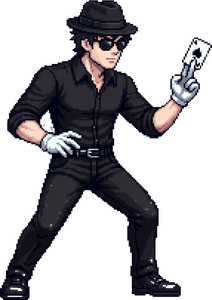
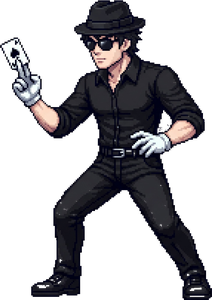
Convert to 3 levels, hide door puzzle hints, add escaped mana ending, and mirror boss sprites

diff --git a/index.html b/index.html
@@ -23,8 +23,7 @@
   button:active{transform:translateY(3px);box-shadow:0 1px 0 #0b3a3d}
   button.alt{background:var(--red);border-color:#5e1128;box-shadow:0 4px 0 #5e1128}
   .row{display:flex;gap:10px;flex-wrap:wrap;justify-content:center}
-  .door{width:clamp(85px,23vw,175px);padding:10px 6px;background:#5b3a22;border:4px solid #2e1c10;box-shadow:inset 0 0 0 4px #8a5a35,0 5px 0 #2e1c10}
-  .door small{display:block;color:#d9c3a0;margin-top:8px;font-size:.8em}
+  .door{width:clamp(85px,23vw,175px);padding:18px 8px;background:#5b3a22;border:4px solid #2e1c10;box-shadow:inset 0 0 0 4px #8a5a35,0 5px 0 #2e1c10;font-size:clamp(9px,1.6vw,14px);line-height:1.6}
   .lamp{width:clamp(44px,11vw,80px);height:clamp(44px,11vw,80px);opacity:.35;border:4px solid #000;padding:0}
   .lamp.on{opacity:1;filter:brightness(1.5);box-shadow:0 0 22px currentColor}
   .opt{min-width:120px}
@@ -48,7 +47,7 @@
 
 <script>
 /* ============================================================
-   KAAVU: HALLOWEEN NIGHT
+   KAAVU: HALLOWEEN NIGHT (3 LEVELS)
    L1: Madampalli Mana (Sunny & Nagavalli)
    L2: Koduman Mana (Thevan & Koduman Potti)
    L3: Abandoned House (Arun & Christopher)
@@ -196,7 +195,7 @@ loadGameImage("thevan", "assets/thevan.png");
 loadGameImage("christopher", "assets/christopher.png");
 loadGameImage("arun", "assets/arun.png");
 
-/* ---------- GAME DATA ---------- */
+/* ---------- GAME DATA (3 LEVELS) ---------- */
 const LEVELS = [
   { 
     name: "Madampalli Mana", 
@@ -230,28 +229,9 @@ const LEVELS = [
       { name: "Christopher", col: "#222222", f: "hat", img: "christopher" },
       { name: "Christopher", col: "#222222", f: "hat", img: "christopher" }
     ]
-  },
-  { 
-    name: "Crossroads at Midnight", 
-    sky: "#10304a", 
-    tree: "#7a2f5a",
-    hero: { name: "Mantravadi", robe: "#1f7a4a", glow: "#6f9" },
-    bosses: [ {name:"Pretham", col:"#9aa89a", f:"hat"}, {name:"Pisachu", col:"#5a7a3b", f:"horns"}, {name:"Brahmarakshas", col:"#a8742b", f:"fangs"} ] 
-  },
-  { 
-    name: "The Last Kaavu", 
-    sky: "#1d1d33", 
-    tree: "#c23a6a",
-    hero: { name: "Gurukkal", robe: "#6b3ab3", glow: "#c8f" },
-    bosses: [ {name:"Kaala Yakshi", col:"#8c1f3a", f:"hair"}, {name:"Raktha Rakshas", col:"#b32626", f:"horns"}, {name:"Kaavu Muthashi", col:"#444a55", f:"hat"} ] 
-  },
+  }
 ];
 
-const PUZZLE_META = {
-  math:   { name: "Number Puzzle", icon: "🔢" },
-  memory: { name: "Lamp Memory",   icon: "💡" },
-  riddle: { name: "Kerala Riddle", icon: "📜" }
-};
 const ALL_PUZZLE_TYPES = ["math", "memory", "riddle"];
 
 const TRIVIA = [
@@ -421,7 +401,7 @@ function drawHUD(){
   txt(String(Math.max(0,Math.ceil(G.timer))).padStart(2,"0"),6,28,22,"#fff");
   for(let i=0;i<G.keys;i++) drawKeyIcon(8+i*14,36);
   for(let i=0;i<3;i++) txt("♥",W-18-i*14,16,12,i<G.lives?"#ff4a6e":"#444");
-  txt("LVL "+(G.lvl+1)+"/5",W-6,32,7,"#f2b84b","right");
+  txt("LVL "+(G.lvl+1)+"/3",W-6,32,7,"#f2b84b","right");
 }
 
 /* ---------- SCENES ---------- */
@@ -440,7 +420,7 @@ function drawFight(){
   
   // Base boss X position
   const baseX = 70 + 180*Math.max(0,G.timer/BOSS_TIME);
-  // When zapped, boss gets defeated and retreats backwards off the screen to the right!
+  // When zapped, boss retreats backwards off screen to the right
   const retreatX = (G.phase === "zap") ? (G.zapT * 115) : 0;
   const currentBx = baseX + retreatX;
   const alpha = G.phase==="zap" ? Math.max(0,1-G.zapT/2.2) : 1;
@@ -462,7 +442,7 @@ function drawFight(){
       ctx.fillRect(0,0,W,H);
       ctx.globalAlpha = 1;
 
-      // Unique weapon / energy beam per hero!
+      // Unique weapon / energy beam per hero
       if(G.lvl === 0){
         // Sunny: Golden Exorcism Holy Beam
         ctx.strokeStyle = "#ffd700";
@@ -486,7 +466,6 @@ function drawFight(){
         for(let i=0;i<14;i++){ R(currentBx + rnd(-5,35), 118 + rnd(-28,28), 3, 3, (i%2) ? "#4ade80" : "#fbbf24"); }
       } else if(G.lvl === 2){
         // Arun: Gunshot Muzzle Flash & High-velocity bullet tracer
-        // Muzzle flash
         if(G.zapT < 0.4 || (G.zapT > 0.8 && G.zapT < 1.1)){
           ctx.fillStyle = "#fff";
           ctx.beginPath();
@@ -497,7 +476,6 @@ function drawFight(){
           ctx.arc(G.heroX + 36, 118, 5, 0, 6.3);
           ctx.fill();
         }
-        // Bullet tracer line
         ctx.strokeStyle = "#fff";
         ctx.lineWidth = 2;
         ctx.beginPath();
@@ -505,14 +483,6 @@ function drawFight(){
         ctx.lineTo(currentBx + 18, 118);
         ctx.stroke();
         for(let i=0;i<16;i++){ R(currentBx + rnd(-8,30), 116 + rnd(-20,20), 2, 2, (i%2) ? "#fbbf24" : "#fff"); }
-      } else {
-        // Fallback energy
-        ctx.strokeStyle = hero.glow;
-        ctx.lineWidth = 3;
-        ctx.beginPath();
-        ctx.moveTo(G.heroX + 28, 122);
-        ctx.lineTo(currentBx + 18, 122);
-        ctx.stroke();
       }
 
       // Shouting speech bubble above Hero
@@ -531,7 +501,6 @@ function drawFight(){
       ctx.fill();
       ctx.stroke();
 
-      // Bubble pointer down to hero
       ctx.beginPath();
       ctx.moveTo(bubbleX - 6, bubbleY + 6);
       ctx.lineTo(bubbleX, bubbleY + 14);
@@ -540,7 +509,6 @@ function drawFight(){
       ctx.fill();
       ctx.stroke();
 
-      // Bold shouting text
       ctx.font = "bold 8px 'Press Start 2P', monospace";
       ctx.textAlign = "center";
       ctx.fillStyle = "#b3264f";
@@ -591,7 +559,7 @@ function loop(ts){const dt=Math.min((ts-lastTs)/1000||0,.05);lastTs=ts;update(dt
 function showTitle(){
   G.state="title";
   showPanel(`<h1>KAAVU<br>HALLOWEEN NIGHT</h1>
-    <div>5 haunted levels. Iconic battles.<br>
+    <div>3 haunted levels. 3 iconic battles.<br>
     L1: <span style="color:#ffd700">Sunny</span> vs <span style="color:#ff8fa8">Nagavalli</span><br>
     L2: <span style="color:#4ade80">Thevan</span> vs <span style="color:#fbbf24">Koduman Potti</span><br>
     L3: <span style="color:#60a5fa">Arun</span> vs <span style="color:#e5e7eb">Christopher</span></div>
@@ -632,14 +600,13 @@ function startLevel(){
 }
 
 function showDoors(){
-  // Randomize Door 1, Door 2, and Door 3 puzzle types initially upon opening
+  // Randomize puzzle types secretly behind doors (user does not see puzzle names)
   G.doorPuzzles = shuffle(ALL_PUZZLE_TYPES);
 
-  showPanel(`<h2>CHOOSE A DOOR</h2><div>Each door holds a random challenge...</div>
+  showPanel(`<h2>CHOOSE A DOOR</h2><div>Something lurks behind each door...</div>
     <div class="row">${[0,1,2].map(i=>`
       <button class="door" data-i="${i}">
         🚪<br>DOOR ${i+1}
-        <small>${PUZZLE_META[G.doorPuzzles[i]].icon} ${PUZZLE_META[G.doorPuzzles[i]].name}</small>
       </button>`).join("")}
     </div>`);
   panel.querySelectorAll(".door").forEach(b=>b.onclick=()=>enterDoor(+b.dataset.i));
@@ -647,7 +614,7 @@ function showDoors(){
 
 function enterDoor(i){
   G.door=i;
-  // Use randomized puzzle for this specific door
+  // Mystery puzzle assigned to this door
   G.currentPuzzle = G.doorPuzzles ? G.doorPuzzles[i] : ALL_PUZZLE_TYPES[i];
   G.state="fight";G.phase="wait";G.timer=BOSS_TIME;G.heroX=-30;
   const boss=theme().bosses[i];
@@ -673,10 +640,12 @@ function caught(){
 function bossDown(){
   const defeatedBoss = theme().bosses[G.door].name;
   G.keys++;G.lvl++;G.state="walk";G.phase="wait";helpBtn.style.display="none";
-  if(G.lvl>=LEVELS.length){
-    showPanel(`<h1>YOU WIN!</h1><div>All spirits and villains banished.<br>Dawn breaks over the kaavu. Happy Halloween!</div><div class="row"><button id="go">PLAY AGAIN</button></div>`);
-    document.getElementById("go").onclick=showTitle; return; }
-  showPanel(`<h2>${defeatedBoss.toUpperCase()} DEFEATED!</h2><div>Key collected (${G.keys} / 5 keys)</div><div class="row"><button id="go">NEXT LEVEL</button></div>`);
+  
+  if(G.lvl >= LEVELS.length){
+    showPanel(`<h1>YOU ESCAPED!</h1><div>You have escaped the mana.<br>Dawn breaks and the curse has ended!</div><div class="row"><button id="go">PLAY AGAIN</button></div>`);
+    document.getElementById("go").onclick=showTitle; return;
+  }
+  showPanel(`<h2>${defeatedBoss.toUpperCase()} DEFEATED!</h2><div>Key collected (${G.keys} / 3 keys)</div><div class="row"><button id="go">NEXT LEVEL</button></div>`);
   document.getElementById("go").onclick=startLevel;
 }
 
